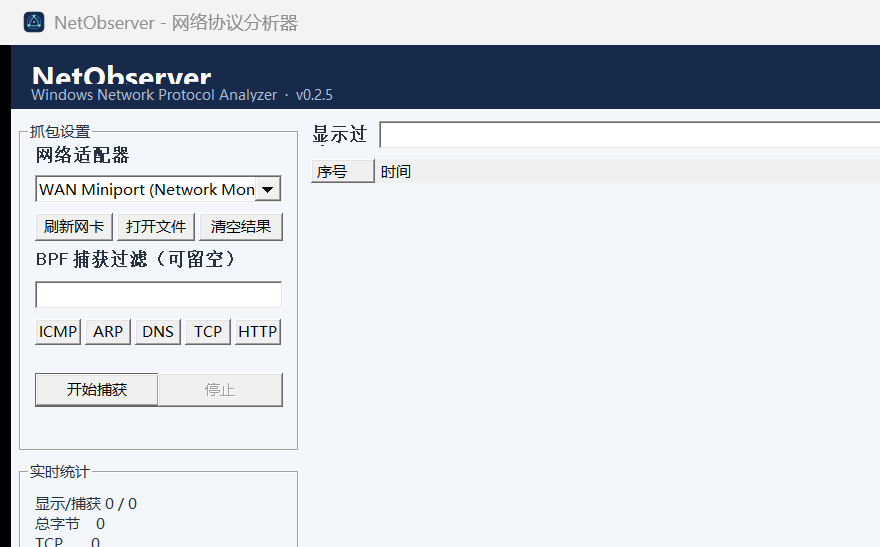
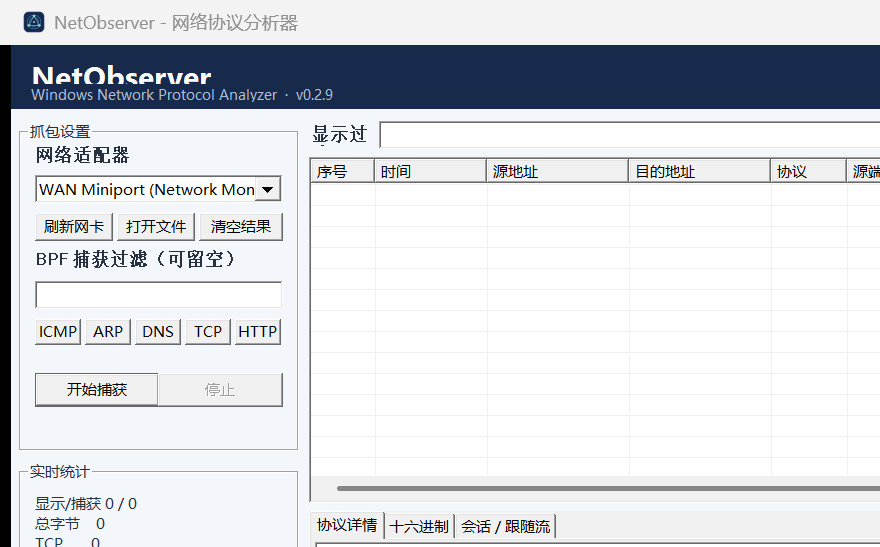
Prepare v0.2.9 GitHub release assets

diff --git a/docs/RELEASE_NOTES_v0.2.9.md b/docs/RELEASE_NOTES_v0.2.9.md
@@ -1,0 +1,35 @@
+# NetObserver v0.2.9
+
+NetObserver is a lightweight Windows network protocol analyzer built with
+C++17, Win32, and the Npcap WinPcap-compatible API.
+
+## Highlights
+
+- Live adapter enumeration, promiscuous capture, and BPF capture filters
+- Post-capture display filters for protocols, addresses, ports, DNS, and HTTP
+- Ethernet, VLAN, IPv4, IPv6, TCP, UDP, ARP, ICMP, IGMP, and DNS parsing
+- HTTP request/response metadata
+- pcap and pcapng reading, pcapng export
+- TCP conversation tracking, out-of-order reassembly, and Follow Stream
+- Bounded packet and stream memory usage
+- Responsive stop handling with non-blocking Npcap reads
+
+## Installation
+
+1. Install Npcap with WinPcap API compatibility.
+2. Download and extract `NetObserver-v0.2.9-win64.zip`.
+3. Run `NetObserver.exe`.
+
+The portable package statically links the Microsoft C++ runtime. Npcap is a
+separate dependency and is not bundled.
+
+## Known limitations
+
+- IPv4 and IPv6 fragmentation are not fully reassembled.
+- TLS and encrypted application protocols remain encrypted.
+- TCP Follow Stream retains at most 1 MB per direction.
+- Protocol coverage is intentionally smaller than Wireshark.
+
+## License
+
+MIT License. See `LICENSE`.
